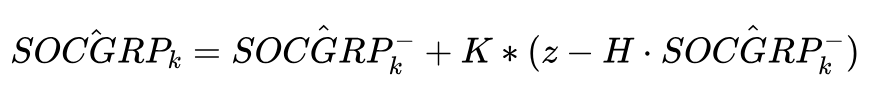
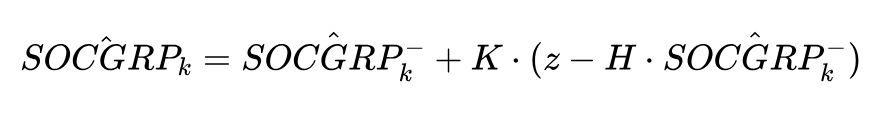
更新公式中的点乘错误

Changed region(s): [[0.0, 0.303, 0.9874, 0.7576], [0.3394, 0.2727, 0.4011, 0.3333], [0.8331, 0.2727, 0.864, 0.3333]]

diff --git a/doc/func.tex b/doc/func.tex
@@ -1,3 +1,8 @@
+https://www.latexlive.com/
+
+
+
+
 SOC_{k} = SOC_{k-1} + \frac{cur*\Delta t}{cap} + w
 
 \hat{vol} = f(SOC_{k}, cur, temperature) + v
@@ -37,6 +42,6 @@ Z = \begin{bmatrix}
 
 K = P_{k}^{-} \cdot H^{T} \cdot (H \cdot P_{k}^{-} \cdot H^{T} + R)^{-1} 
 
-\hat{SOCGRP_{k}}  = \hat{SOCGRP_{k}^{-}} + K * (z - H \cdot \hat{SOCGRP_{k}^{-}})
+\hat{SOCGRP_{k}}  = \hat{SOCGRP_{k}^{-}} + K \cdot (z - H \cdot \hat{SOCGRP_{k}^{-}})
 
-P_{k} = (1-K*H)*P_{K}^{-}
+P_{k} = (1-K \cdot H) \cdot P_{K}^{-}
